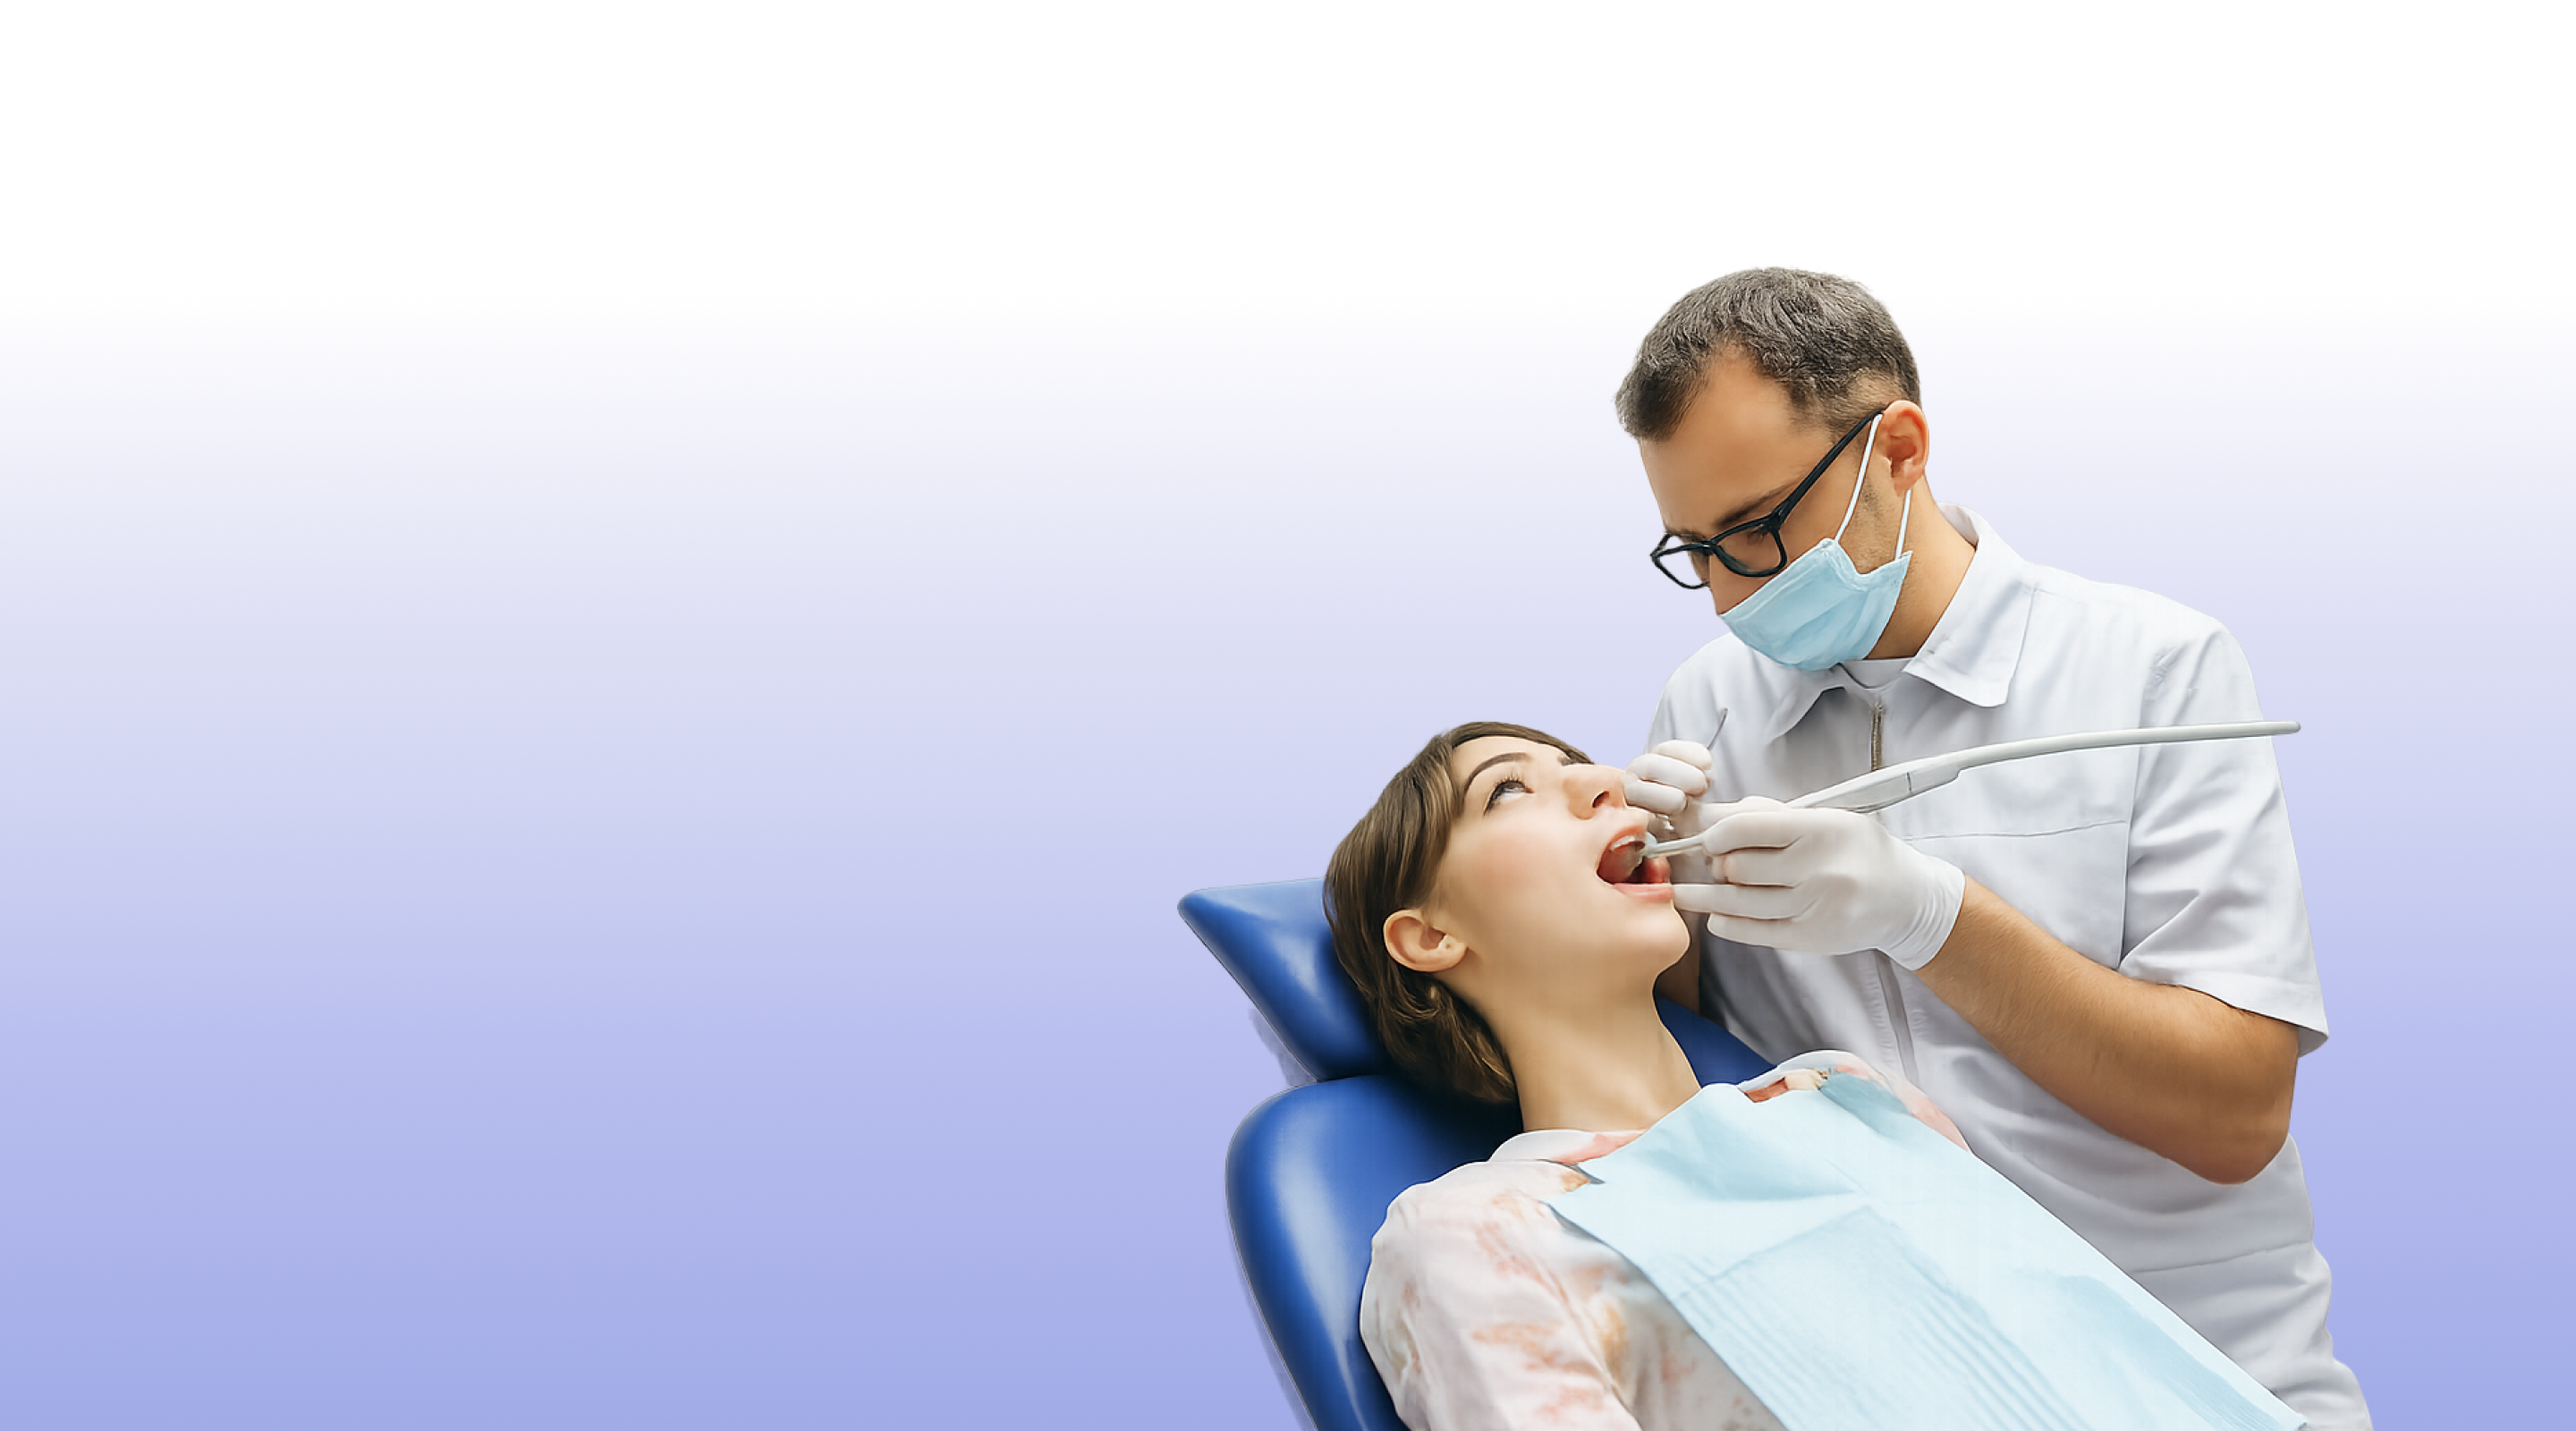
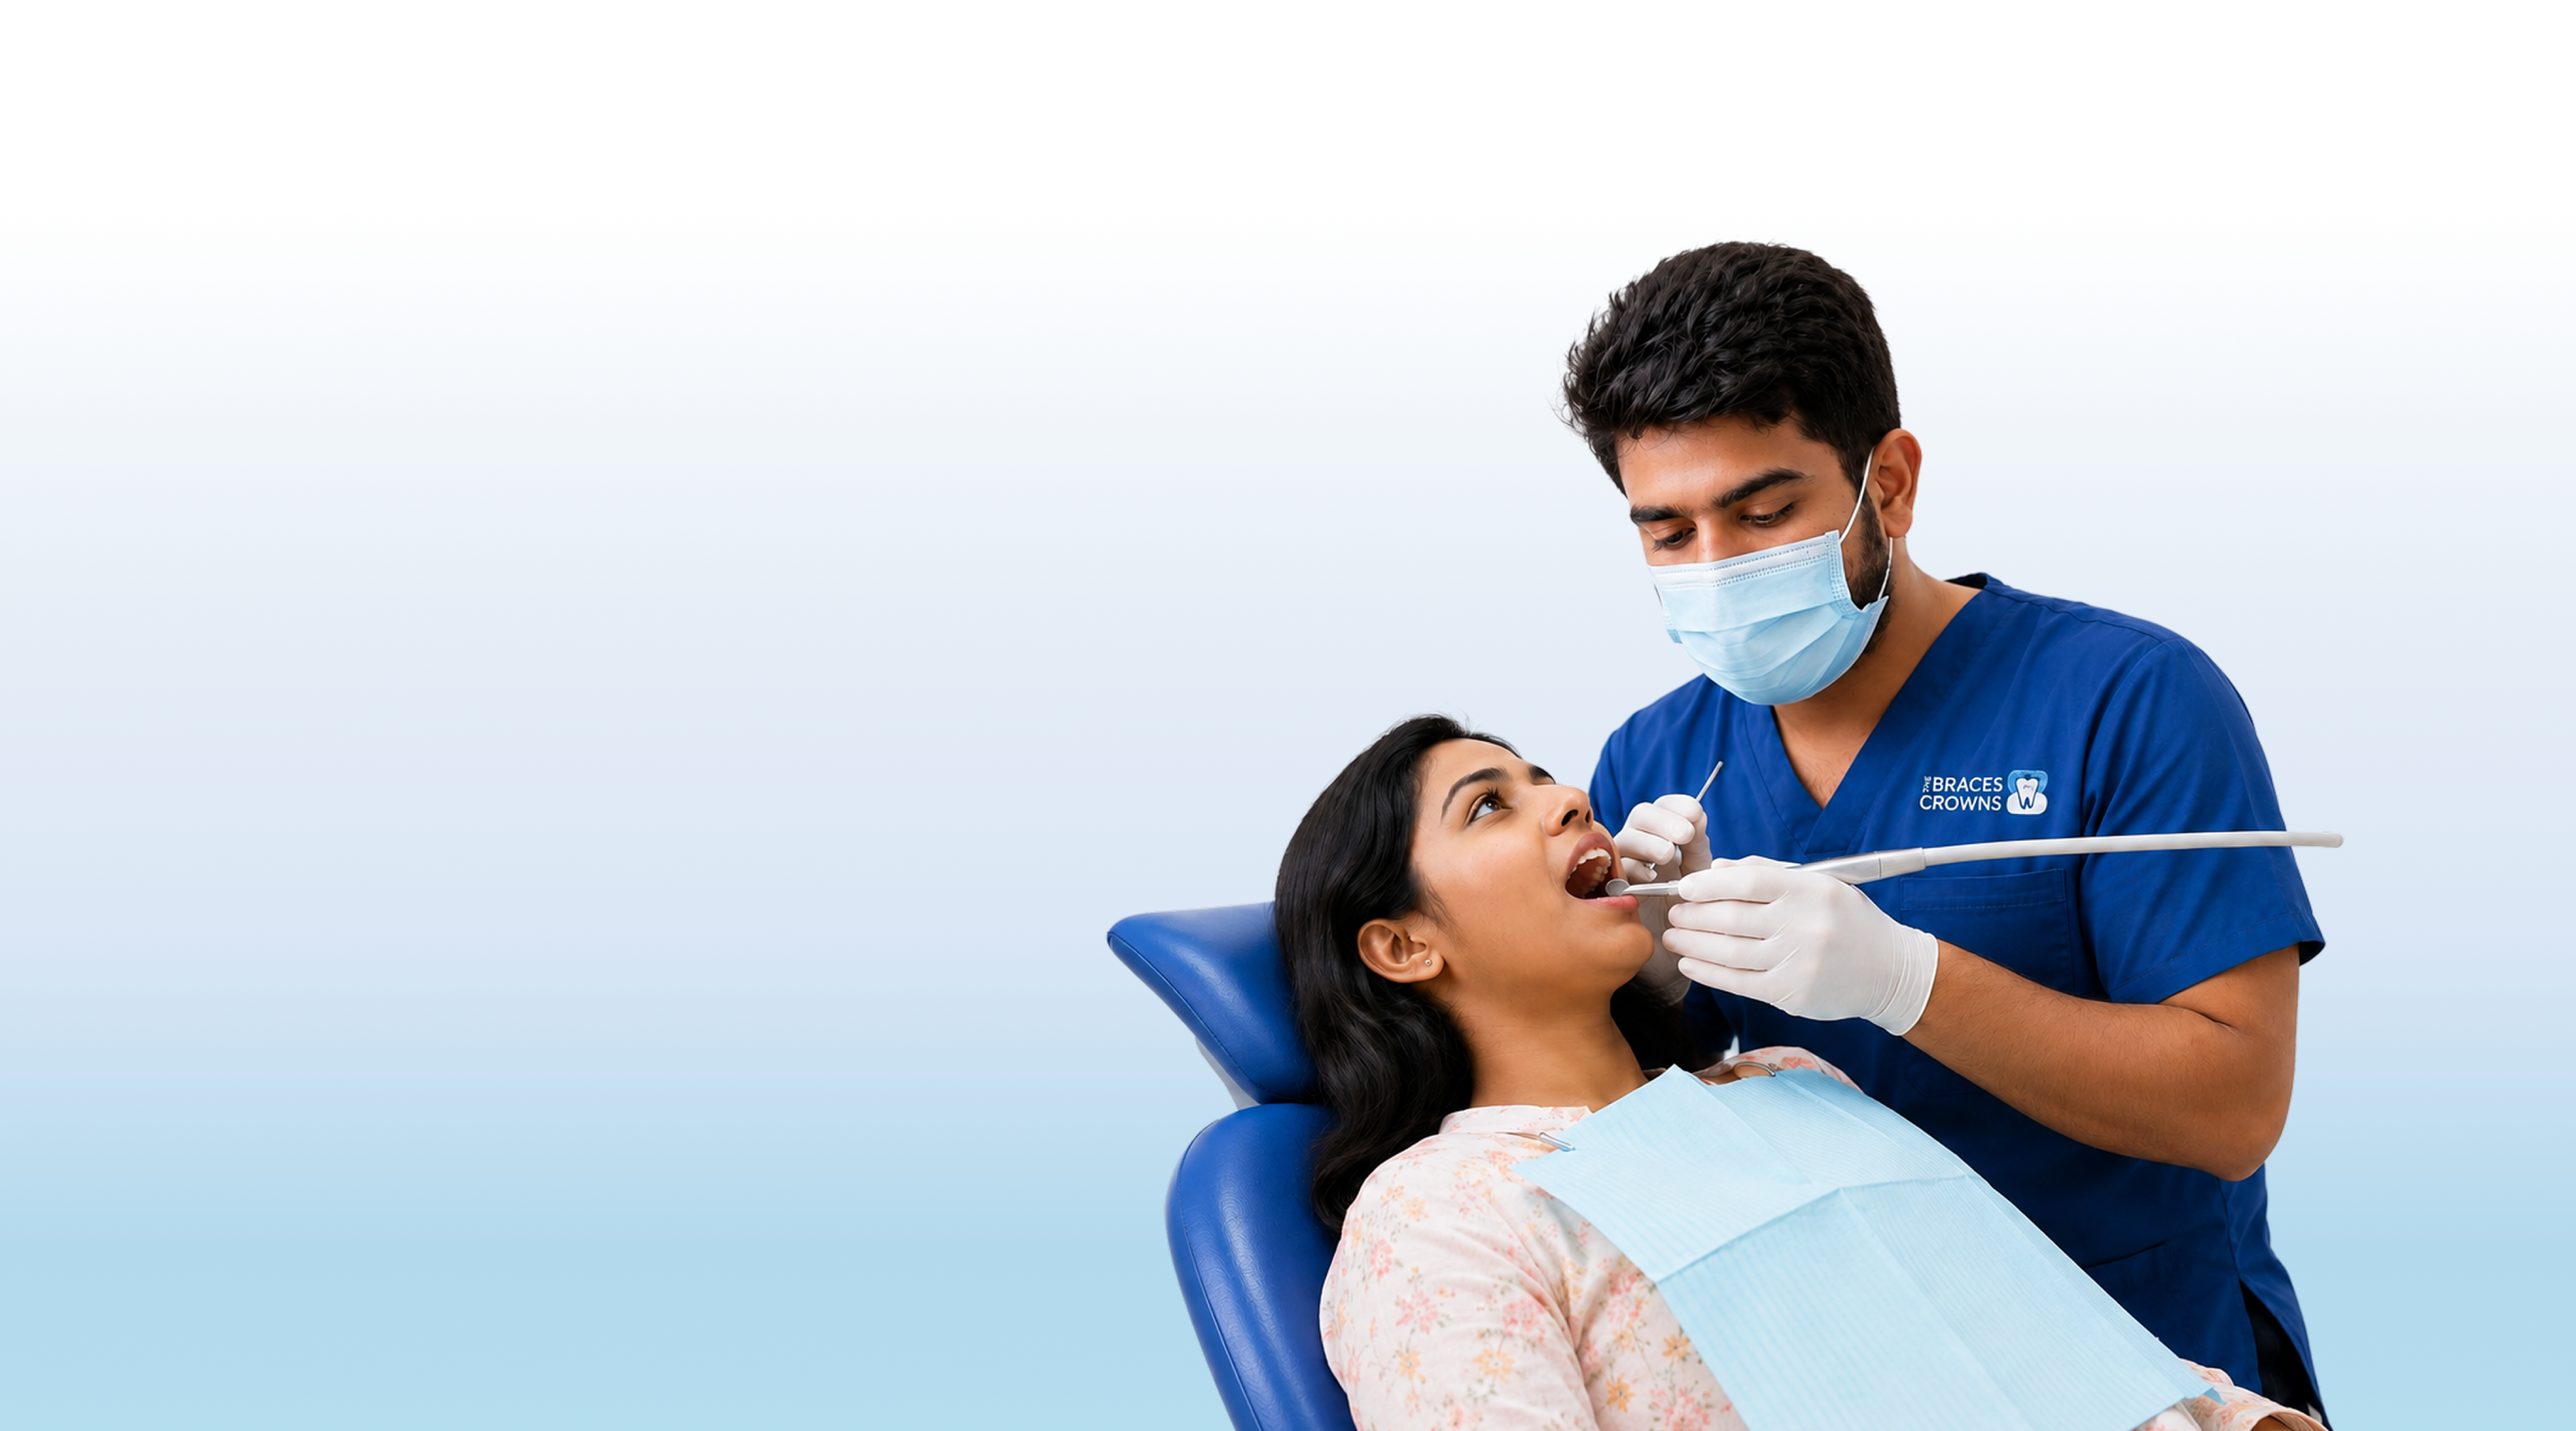
images changes

diff --git a/index.html b/index.html
@@ -330,7 +330,7 @@
            
 
             <!-- Main Consultation Image -->
-            <img src="images/smile.avif" alt="Dr. S. Prudhvi Das Reddy examining dental scans at The Braces & Crowns">
+            <img src="images/smile.png" alt="Dr. S. Prudhvi Das Reddy examining dental scans at The Braces & Crowns">
 
           </div>
 
@@ -645,7 +645,7 @@
 
           <div class="ds__media" data-reveal="left-scale">
             <div class="ds__image-frame">
-              <img src="images/doc.avif" alt="Dr. S. Prudhvi Das Reddy, MDS" class="ds__image">
+              <img src="images/prudvi-doc.png" alt="Dr. S. Prudhvi Das Reddy, MDS" class="ds__image">
             </div>
             <div class="ds__identity">
               <span class="ds__identity-check" aria-hidden="true"><i data-lucide="badge-check"></i></span>
@@ -1227,6 +1227,16 @@
           <p class="text-base sm:text-lg text-brand-muted">Read real experiences from patients treated at our Ameerpet clinic.</p>
         </div>
 
+        <!-- Rating Bar -->
+        <div class="testi-rating-bar" data-reveal="up">
+          <span class="testi-rating-stars" aria-hidden="true">
+            <i data-lucide="star"></i><i data-lucide="star"></i><i data-lucide="star"></i><i data-lucide="star"></i><i data-lucide="star"></i>
+          </span>
+          <span class="testi-rating-value">4.9/5 Rating</span>
+          <span class="testi-rating-divider" aria-hidden="true"></span>
+          <span class="testi-rating-patients">1200+ Happy Patients</span>
+        </div>
+
         <!-- Carousel -->
         <div class="testi-carousel-wrapper" data-testimonials data-reveal="up">
           <div class="testi-track-container">
@@ -1234,6 +1244,7 @@
 
               <article class="testi-slide">
                 <div class="testi-card">
+                  <span class="testi-quote-icon" aria-hidden="true"><i data-lucide="quote"></i></span>
                   <p class="testi-quote">
                     "Dr. Prudhvi made my aligner journey extremely smooth. The 3D scan before starting gave me total confidence in the results. Today my teeth are perfectly aligned!"
                   </p>
@@ -1249,6 +1260,7 @@
 
               <article class="testi-slide">
                 <div class="testi-card">
+                  <span class="testi-quote-icon" aria-hidden="true"><i data-lucide="quote"></i></span>
                   <p class="testi-quote">
                     "As a working professional, I wanted discreet braces. The ceramic options at THE BRACES & CROWNS were fantastic. Highly systematic and very clean clinic."
                   </p>
@@ -1264,6 +1276,7 @@
 
               <article class="testi-slide">
                 <div class="testi-card">
+                  <span class="testi-quote-icon" aria-hidden="true"><i data-lucide="quote"></i></span>
                   <p class="testi-quote">
                     "Painless treatment and transparent explanation! Dr. Prudhvi explained every step on the monitor screen. I felt completely relaxed throughout the procedure."
                   </p>
@@ -1279,6 +1292,7 @@
 
               <article class="testi-slide">
                 <div class="testi-card">
+                  <span class="testi-quote-icon" aria-hidden="true"><i data-lucide="quote"></i></span>
                   <p class="testi-quote">
                     "The precision of digital smile design is unbelievable! My crown replacement looks 100% natural and feels completely comfortable. Truly top quality."
                   </p>
@@ -1294,6 +1308,7 @@
 
               <article class="testi-slide">
                 <div class="testi-card">
+                  <span class="testi-quote-icon" aria-hidden="true"><i data-lucide="quote"></i></span>
                   <p class="testi-quote">
                     "From initial consultation to final checkup, the care was world-class. Dr. Prudhvi and his staff treat every patient with extreme dedication and kindness."
                   </p>
@@ -1310,18 +1325,16 @@
             </div>
           </div>
 
-          <!-- Controls: Left (White Circle) & Right (Lime Accent Circle) Arrow Buttons -->
+          <!-- Controls: Prev Circle, Dots Indicator, Next Circle -->
           <div class="testi-controls-row">
             <button type="button" class="testi-nav-btn testi-nav-btn--prev" data-testi-prev aria-label="Previous testimonial">
-              <i data-lucide="arrow-left" class="w-5 h-5"></i>
+              <i data-lucide="chevron-left" class="w-5 h-5"></i>
             </button>
+            <div class="testi-dots" data-testi-dots></div>
             <button type="button" class="testi-nav-btn testi-nav-btn--next" data-testi-next aria-label="Next testimonial">
-              <i data-lucide="arrow-right" class="w-5 h-5"></i>
+              <i data-lucide="chevron-right" class="w-5 h-5"></i>
             </button>
           </div>
-
-          <!-- Dots Indicator -->
-          <div class="testi-dots" data-testi-dots></div>
         </div>
 
       </div>
@@ -1470,7 +1483,9 @@
           </div>
 
           <div class="ab-media">
-            <img src="images/contact.jpg" alt="Dr. S. Prudhvi Das Reddy and clinic team at THE BRACES & CROWNS, Ameerpet" loading="lazy">
+            <div class="ab-media-inner">
+              <img src="images/contact.png" alt="Dr. S. Prudhvi Das Reddy and clinic team at THE BRACES & CROWNS, Ameerpet" loading="lazy">
+            </div>
           </div>
 
         </div>

diff --git a/css/testimonials-redesign.css b/css/testimonials-redesign.css
@@ -44,6 +44,60 @@
   pointer-events: none;
 }
 
+/* Rating Bar (Stars + Score + Happy Patients) */
+.testi-rating-bar {
+  display: flex;
+  align-items: center;
+  justify-content: center;
+  flex-wrap: wrap;
+  gap: 14px;
+  margin: -4px auto 36px auto;
+  font-family: 'Manrope', 'Inter', sans-serif;
+}
+
+.testi-rating-stars {
+  display: inline-flex;
+  align-items: center;
+  gap: 3px;
+  color: #FBBF24;
+}
+
+.testi-rating-stars i {
+  width: 18px;
+  height: 18px;
+  fill: #FBBF24;
+  stroke: #FBBF24;
+}
+
+.testi-rating-value {
+  font-size: 0.95rem;
+  font-weight: 700;
+  color: #0B1220;
+}
+
+.testi-rating-divider {
+  width: 1px;
+  height: 16px;
+  background: rgba(11, 70, 150, 0.25);
+}
+
+.testi-rating-patients {
+  font-size: 0.95rem;
+  font-weight: 600;
+  color: #475569;
+}
+
+@media (max-width: 640px) {
+  .testi-rating-bar {
+    gap: 10px;
+    margin-bottom: 28px;
+  }
+  .testi-rating-value,
+  .testi-rating-patients {
+    font-size: 0.85rem;
+  }
+}
+
 /* Outer Carousel Wrapper */
 .testi-carousel-wrapper {
   position: relative;
@@ -112,13 +166,12 @@
   z-index: 5;
 }
 
-/* Main Card Styling - Solid Brand Deep (#0B4696) Offset Shadow & White Surface */
+/* Main Card Styling - Simple White Surface */
 .testi-card {
+  position: relative;
   background: #ffffff;
   border-radius: 28px;
   padding: 46px 42px;
-  box-shadow: 4px 4px 0px rgba(11, 70, 150, 0.12);
-  border: 1.5px solid rgba(11, 70, 150, 0.15);
   display: flex;
   flex-direction: column;
   align-items: center;
@@ -128,17 +181,33 @@
   justify-content: space-between;
 }
 
+/* Decorative Quote Glyph */
+.testi-quote-icon {
+  display: inline-flex;
+  align-items: center;
+  justify-content: center;
+  color: #BFE4F7;
+  margin: 0 auto 6px auto;
+}
+
+.testi-quote-icon i {
+  width: 34px;
+  height: 34px;
+  stroke-width: 2px;
+}
+
+@media (max-width: 640px) {
+  .testi-quote-icon i {
+    width: 28px;
+    height: 28px;
+  }
+}
+
 @media (max-width: 640px) {
   .testi-card {
     padding: 32px 24px;
     border-radius: 22px;
-    box-shadow: 4px 4px 0px rgba(11, 70, 150, 0.1);
   }
-}
-
-.testi-slide.is-active .testi-card {
-  box-shadow: 12px 12px 0px #0B4696;
-  border-color: rgba(11, 70, 150, 0.25);
 }
 
 /* Quote Text */
@@ -206,58 +275,55 @@
 
 .testi-author-role {
   font-size: 0.825rem;
-  font-weight: 500;
-  color: #475569;
+  font-weight: 600;
+  color: #4AC0EE;
   margin: 0;
 }
 
-/* Nav Controls & Arrow Buttons */
+/* Nav Controls: Prev Circle — Dots — Next Circle */
 .testi-controls-row {
   display: flex;
   align-items: center;
   justify-content: center;
-  gap: 16px;
+  gap: 20px;
   margin-top: 28px;
 }
 
 .testi-nav-btn {
-  width: 50px;
-  height: 50px;
+  flex: 0 0 auto;
+  width: 44px;
+  height: 44px;
   border-radius: 50%;
   display: inline-flex;
   align-items: center;
   justify-content: center;
   cursor: pointer;
-  border: 1px solid rgba(11, 70, 150, 0.15);
   transition: all 0.25s cubic-bezier(0.16, 1, 0.3, 1);
   outline: none;
   user-select: none;
 }
 
-/* Left Arrow Button: White Circle */
-.testi-nav-btn--prev {
+/* Both Arrow Buttons: Matching White Circles */
+.testi-nav-btn--prev,
+.testi-nav-btn--next {
   background: #ffffff;
   color: #0B1220;
+  border: 1px solid rgba(11, 70, 150, 0.15);
   box-shadow: 0 3px 10px rgba(11, 70, 150, 0.08);
 }
 
-.testi-nav-btn--prev:hover {
+.testi-nav-btn--prev:hover,
+.testi-nav-btn--next:hover {
   background: #f1f7fc;
-  transform: translateX(-2px);
   box-shadow: 0 6px 16px rgba(11, 70, 150, 0.14);
 }
 
-/* Right Arrow Button: Brand Deep (#0B4696) Circle */
-.testi-nav-btn--next {
-  background: #0B4696; /* Brand Deep primary accent */
-  color: #ffffff;
-  box-shadow: 0 4px 14px rgba(11, 70, 150, 0.35);
+.testi-nav-btn--prev:hover {
+  transform: translateX(-2px);
 }
 
 .testi-nav-btn--next:hover {
-  background: #083778;
-  transform: translateX(2px) scale(1.04);
-  box-shadow: 0 6px 20px rgba(11, 70, 150, 0.45);
+  transform: translateX(2px);
 }
 
 .testi-nav-btn:active {
@@ -266,7 +332,10 @@
 
 /* Pagination Dots */
 .testi-dots {
-  display: none;
+  display: flex;
+  align-items: center;
+  justify-content: center;
+  gap: 8px;
 }
 
 .testi-dot {

diff --git a/css/appointment-booking.css b/css/appointment-booking.css
@@ -218,13 +218,19 @@
   position: relative;
   height: 100%;
   min-height: 420px;
-  border-radius: 24px;
-  overflow: hidden;
   opacity: 0;
   transform: translateX(40px);
   transition: opacity .8s cubic-bezier(.16,1,.3,1) .1s, transform .8s cubic-bezier(.16,1,.3,1) .1s;
 }
 .ab-section.is-visible .ab-media { opacity: 1; transform: translateX(0); }
+
+.ab-media-inner {
+  position: relative;
+  width: 100%;
+  height: 100%;
+  border-radius: 24px;
+  overflow: hidden;
+}
 
 .ab-media img {
   display: block;
@@ -235,10 +241,15 @@
   object-fit: cover;
   transition: transform 600ms ease;
 }
+
 .ab-media:hover img { transform: scale(1.02); }
 
 @media (max-width: 1024px) {
   .ab-media { min-height: 320px; }
+}
+
+@media (max-width: 640px) {
+  .ab-media-inner { border-radius: 22px; }
 }
 
 /* --------------------------------- Motion --------------------------------- */
